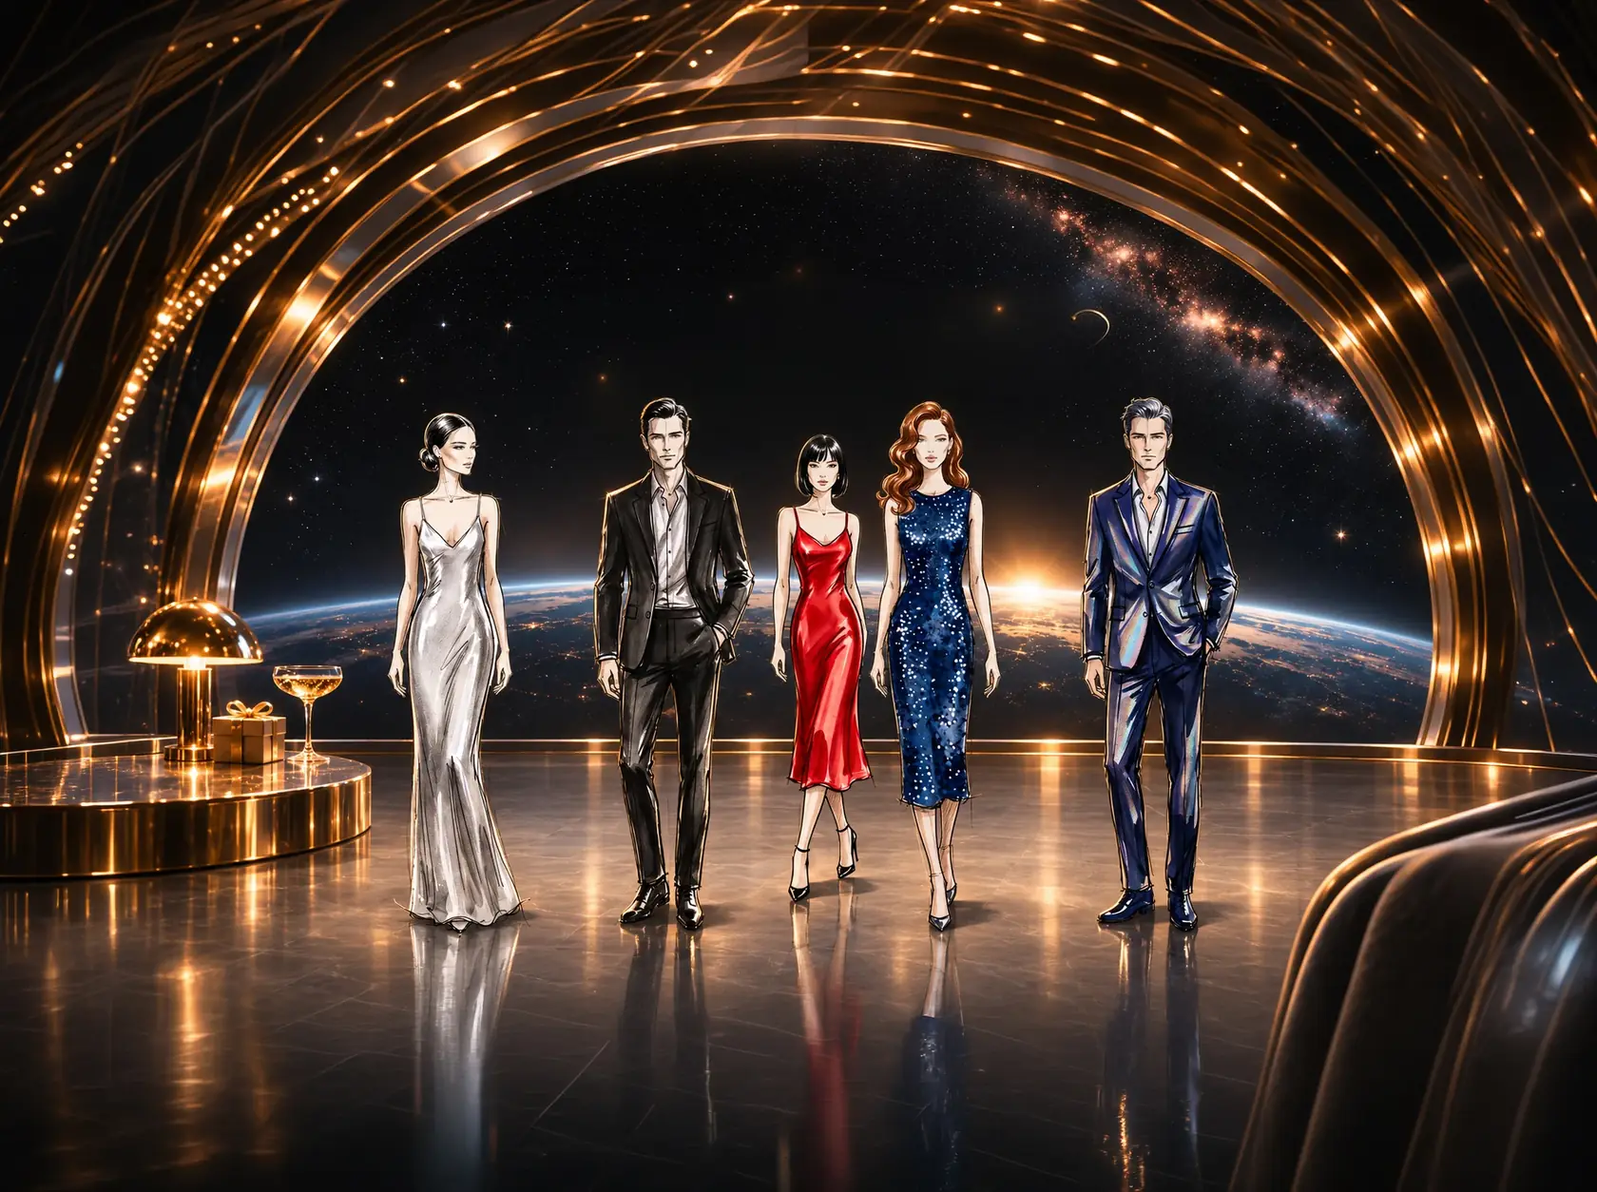
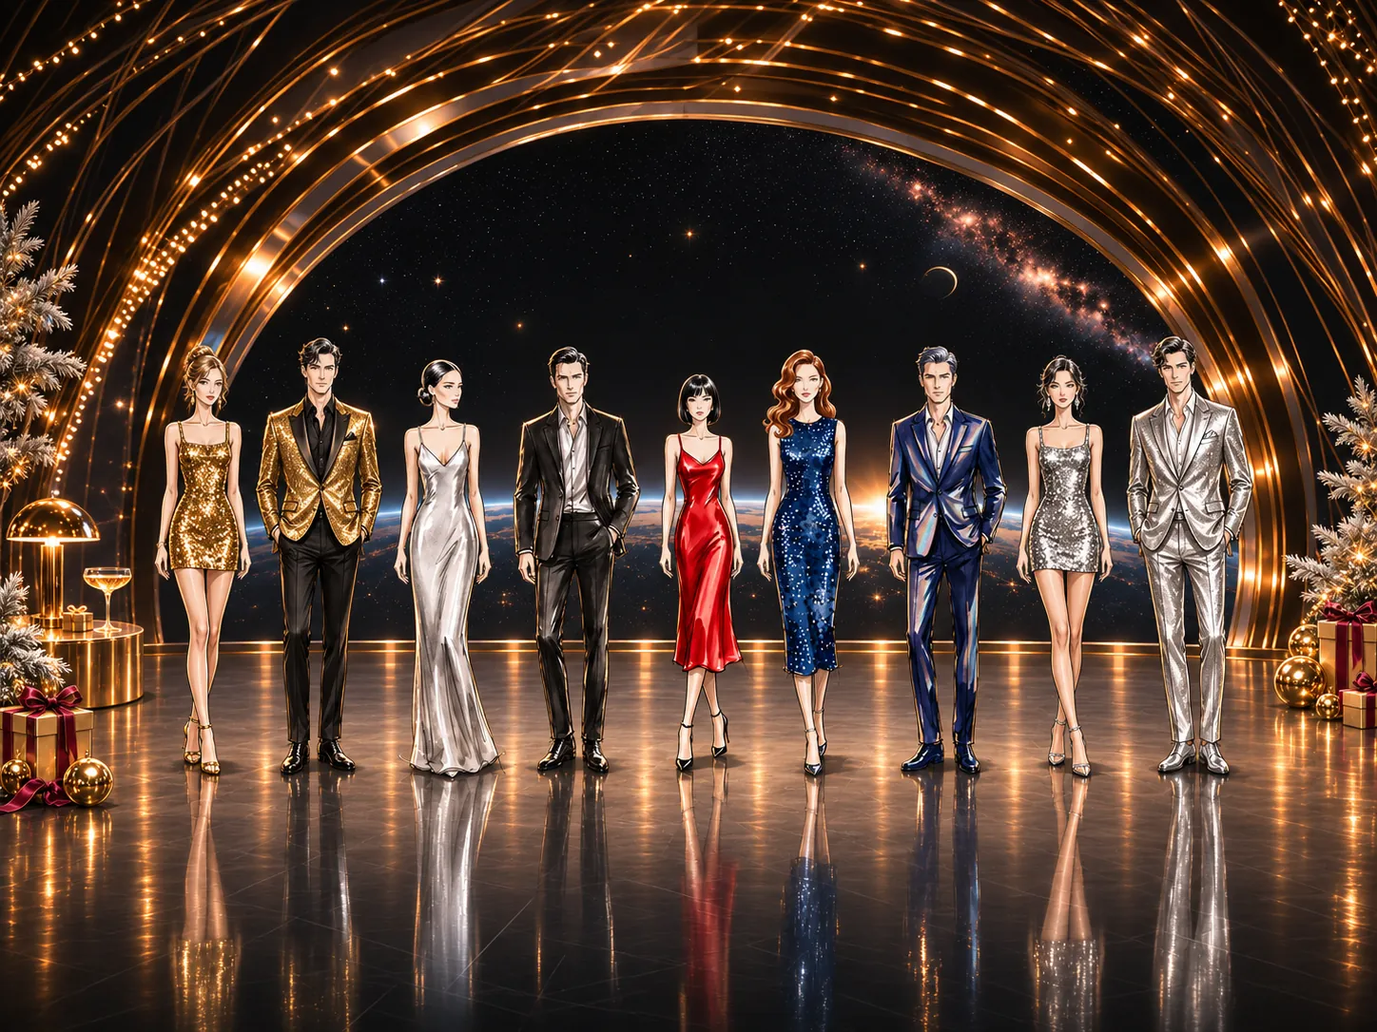
Add files via upload

diff --git a/zvezdy-github/index.html b/zvezdy-github/index.html
@@ -121,35 +121,18 @@ main{position:relative;z-index:3}
 
 /* ================= HERO ================= */
 .hero{position:relative;min-height:100svh;display:flex;align-items:center;justify-content:center;
-  text-align:center;overflow:hidden;background:
-    radial-gradient(120% 90% at 50% 112%,#F6E9D2 0%,#D9C5A2 16%,#6E5B6B 38%,#241A2E 62%,#0D0912 85%)}
-.hero-sky{position:absolute;inset:0;overflow:hidden}
-.globe{position:absolute;left:50%;top:-62vw;width:142vw;aspect-ratio:1;translate:-50% 0;border-radius:50%;
-  background:radial-gradient(circle at 50% 50%,#0A0710 0%,#0C0814 61%,rgba(12,8,20,0) 64%);
-  box-shadow:0 0 0 1px rgba(232,206,147,.16),0 40px 120px rgba(0,0,0,.6)}
-.globe::after{content:'';position:absolute;inset:0;border-radius:50%;
-  background:conic-gradient(from 60deg at 50% 50%,transparent 0deg,rgba(246,230,192,.0) 30deg,
-    rgba(246,230,192,.9) 56deg,rgba(255,240,210,1) 62deg,rgba(232,206,147,.45) 72deg,transparent 100deg);
-  -webkit-mask:radial-gradient(circle,transparent 60.4%,#000 61%,#000 62.6%,transparent 63%);
-  mask:radial-gradient(circle,transparent 60.4%,#000 61%,#000 62.6%,transparent 63%);
+  text-align:center;overflow:hidden;background:#221c28}
+.hero-sky{position:absolute;inset:0;background:
+  radial-gradient(ellipse at 50% 42%,rgba(82,56,49,.24),transparent 62%),
+  url(hero.webp) center / cover no-repeat}
+.hero-ship{position:absolute;right:4%;top:23%;width:clamp(104px,17vw,275px);height:auto;pointer-events:none}
+@media(max-width:900px){
+  .hero-ship{top:17%;right:2%;width:clamp(78px,14vw,128px);opacity:.7}
 }
-.flare{position:absolute;width:min(46vw,520px);aspect-ratio:1;border-radius:50%;
-  right:12%;top:16%;pointer-events:none;
-  background:radial-gradient(circle,rgba(255,244,218,.85) 0%,rgba(232,206,147,.35) 18%,rgba(190,146,68,.12) 38%,transparent 66%)}
-.horizon{position:absolute;left:0;right:0;bottom:0;height:34vh;pointer-events:none;z-index:3;
-  background:radial-gradient(66% 100% at 50% 122%,rgba(255,247,228,.55) 0%,rgba(237,220,186,.28) 30%,transparent 62%)}
-.hero-photo{position:absolute;left:0;right:0;bottom:0;height:62%;z-index:2;
-  background:linear-gradient(rgba(8,5,14,.4),rgba(8,5,14,.4)),url(hero.webp) center 42% / cover;
-  -webkit-mask:linear-gradient(180deg,transparent 0%,rgba(0,0,0,.55) 22%,#000 48%);
-  mask:linear-gradient(180deg,transparent 0%,rgba(0,0,0,.55) 22%,#000 48%)}
-.hero-scrim{position:absolute;inset:0;z-index:4;pointer-events:none;background:
-  radial-gradient(68% 54% at 50% 44%,rgba(8,5,14,.82) 0%,rgba(8,5,14,.55) 48%,rgba(8,5,14,.12) 78%,transparent 92%),
-  linear-gradient(180deg,rgba(8,5,14,.72) 0%,rgba(8,5,14,.26) 26%,rgba(8,5,14,.3) 64%,rgba(8,5,14,.78) 100%)}
-
-.swoosh{position:absolute;left:50%;top:50%;translate:-50% -50%;width:min(118vw,1500px);
-  aspect-ratio:2.6/1;pointer-events:none;opacity:.9}
-.swoosh svg{width:100%;height:100%}
-
+@media(max-width:520px){
+  .hero-sky{background-size:auto,auto 100%;opacity:.8}
+  .hero-ship{top:14%;right:2%;width:78px;opacity:.62}
+}
 .hero-in{position:relative;z-index:6;padding:76px var(--gap) clamp(76px,9vh,112px);width:100%;
   text-shadow:0 2px 26px rgba(8,5,14,.85),0 1px 4px rgba(8,5,14,.6)}
 .hero .lbl{display:block;margin-bottom:22px}
@@ -271,11 +254,12 @@ main{position:relative;z-index:3}
 /* hero: logo + event info */
 .hero-when{display:grid;justify-items:center;gap:4px;margin:0 auto}
 .hero-when h1{font-size:clamp(30px,6vw,84px);line-height:1.06;color:var(--gold-xl);text-wrap:balance}
-.hero-time{font-family:var(--f-d);font-size:clamp(26px,4.25vw,60px);line-height:1.1;color:var(--gold-xl)}
-.hero-logos{display:flex;align-items:center;justify-content:center;gap:clamp(18px,2.6vw,36px);margin:0 auto clamp(18px,3vh,30px)}
-.hero-logo{height:clamp(58px,6vw,84px);width:auto;filter:drop-shadow(0 4px 22px rgba(8,5,14,.7))}
-.hero-logo.psb{height:clamp(28px,3vw,42px)}
-.hero-logos-sep{width:1px;height:clamp(40px,4.6vw,62px);background:linear-gradient(180deg,transparent,rgba(232,206,147,.7),transparent)}
+.hero-times{display:flex;flex-wrap:wrap;justify-content:center;column-gap:clamp(18px,4vw,60px);row-gap:8px}
+.hero-time{display:grid;gap:2px;font-family:var(--f-d);font-size:clamp(24px,3.9vw,52px);line-height:1.12;color:var(--gold-xl)}
+.hero-time span{font-family:var(--f-b);font-size:clamp(11px,1.3vw,16px);color:var(--cream)}
+.hero-logos{display:flex;align-items:center;justify-content:space-between;max-width:1060px;
+  gap:20px;margin:0 auto clamp(18px,3vh,30px)}
+.hero-logo{width:clamp(88px,14vw,168px);height:clamp(42px,5.3vw,70px);object-fit:contain}
 .hero-intro{position:relative;display:grid;grid-template-columns:repeat(2,minmax(0,1fr));
   align-items:center;max-width:920px;margin:clamp(28px,5vh,54px) auto;text-align:left;
   column-gap:clamp(48px,8vw,112px)}
@@ -334,6 +318,28 @@ main{position:relative;z-index:3}
   .image-slide__copy{grid-template-columns:1fr;margin-top:calc(68vw - 44px)}
 }
 
+.dress-intro{grid-column:1/-1;text-align:center}
+#dress h3,#dress h4{font-family:var(--f-d);font-size:clamp(17px,2.5vw,34px);color:var(--gold-xl);margin-bottom:5px}
+#dress h4{font-size:clamp(16px,1.75vw,25px)}
+#dress .image-slide__content{padding-bottom:clamp(24px,3vw,56px)}
+#dress .image-slide__copy{text-align:center}
+#prog .programme-logo,#prog .suit-logo{position:absolute;z-index:1;object-fit:contain}
+#prog .programme-logo{width:7%;height:5%;top:20%}
+#prog .programme-logo--a7{left:36%}
+#prog .programme-logo--psb{left:68%;top:21%}
+#prog .suit-logo{width:1.15%;height:1.2%;left:23.3%;top:33.5%;transform:rotate(28deg)}
+#reg::before{background:linear-gradient(90deg,rgba(15,12,18,.15),rgba(15,12,18,.82)),
+  url(registration.webp) center / cover no-repeat}
+#reg .sent{background:rgba(13,9,18,.73);padding:clamp(16px,3vw,36px);border-radius:6px}
+#reg .field input,#reg .field select{color:var(--cream)}
+#reg .field label{color:var(--gold-l)}
+#reg .field .msg{color:#FFB9A6}
+#reg .field input:focus{outline:2px solid var(--gold)}
+.field-select label{position:static;display:block;pointer-events:auto;margin-bottom:4px}
+.field-select select{width:100%;border:1px solid rgba(190,146,68,.55);border-radius:4px;
+  background:var(--night);font:inherit;padding:8px;color-scheme:dark}
+.field-select .msg{position:static;display:none}
+.field-select.err .msg{display:block}
 /* ================= FORM / TICKET ================= */
 .fgrid{display:grid;grid-template-columns:1fr 1.05fr;gap:clamp(34px,5.5vw,86px);align-items:start}
 .field{position:relative;margin-bottom:24px}
@@ -374,19 +380,15 @@ main{position:relative;z-index:3}
 .sent.off{display:none}
 
 /* ================= MAP ================= */
-.mapbox{position:relative;border-radius:6px;overflow:hidden;border:1px solid rgba(232,206,147,.3);
-  min-height:clamp(290px,48vh,480px);display:flex;align-items:center;justify-content:center;
-  background:radial-gradient(70% 70% at 50% 50%,rgba(190,146,68,.2),transparent 68%),
-             linear-gradient(160deg,#160F20,#0B0710)}
-.mapgrid{position:absolute;inset:0;opacity:.3;
-  background-image:linear-gradient(rgba(232,206,147,.16) 1px,transparent 1px),
-                   linear-gradient(90deg,rgba(232,206,147,.16) 1px,transparent 1px);
-  background-size:54px 54px;
-  -webkit-mask:radial-gradient(58% 58% at 50% 50%,#000,transparent);
-  mask:radial-gradient(58% 58% at 50% 50%,#000,transparent)}
-.pin{position:relative;z-index:3;text-align:center;padding:0 20px}
-.pin .d{width:15px;height:15px;border-radius:50%;background:var(--gold-l);margin:0 auto 20px;position:relative;
-  box-shadow:0 0 24px rgba(232,206,147,.9)}
+.mapbox{position:relative;aspect-ratio:1846/852;min-height:280px;
+  background:#080708 url(map-frame.webp) center / 100% 100% no-repeat}
+.pin{position:absolute;inset:37% 20% 22%;display:grid;align-content:center;justify-items:center;
+  text-align:center;color:var(--cream)}
+.map-planet{width:clamp(34px,8vw,112px);max-height:clamp(34px,8vw,96px);object-fit:contain}
+.pin h3{font-size:clamp(16px,3vw,42px);margin:3px 0 !important}
+.pin .lbl{font-size:clamp(7px,1vw,10px);letter-spacing:.22em}
+.pin .lead{font-size:clamp(10px,1.45vw,18px);line-height:1.25}
+#map .btn-o{color:var(--gold-xl);border-color:var(--gold)}
 .acts{display:flex;gap:12px;flex-wrap:wrap;margin-top:28px}
 .infos{display:grid;grid-template-columns:repeat(auto-fit,minmax(225px,1fr));gap:clamp(16px,2.2vw,28px);margin-top:44px}
 
@@ -408,8 +410,6 @@ footer span{font-family:var(--f-d);font-size:10.5px;letter-spacing:.26em;text-tr
   .nav-links{display:none}
   .burger{display:flex}
   .hero{min-height:100svh}
-  .globe{width:230vw;top:-104vw}
-  .flare{width:62vw;right:2%;top:12%}
   .board-head{display:none}
   .row{grid-template-columns:1fr auto;gap:10px 16px;padding:16px clamp(16px,4vw,24px)}
   .row .tm{grid-column:1;font-size:15px}
@@ -453,38 +453,19 @@ footer span{font-family:var(--f-d);font-size:10.5px;letter-spacing:.26em;text-tr
 
 <!-- ============ 01 HERO ============ -->
 <section class="hero" id="home">
-  <div class="hero-sky">
-    <div class="globe"></div>
-    <div class="flare"></div>
-    <div class="swoosh">
-      <svg viewBox="0 0 1200 460" fill="none" xmlns="http://www.w3.org/2000/svg">
-        <defs>
-          <linearGradient id="sw" x1="0" y1="0" x2="1" y2="0">
-            <stop offset="0" stop-color="#BE9244" stop-opacity="0"/>
-            <stop offset=".22" stop-color="#F6E6C0" stop-opacity=".95"/>
-            <stop offset=".55" stop-color="#BE9244" stop-opacity=".5"/>
-            <stop offset=".82" stop-color="#F6E6C0" stop-opacity=".9"/>
-            <stop offset="1" stop-color="#BE9244" stop-opacity="0"/>
-          </linearGradient>
-        </defs>
-        <ellipse cx="600" cy="230" rx="560" ry="152" stroke="url(#sw)" stroke-width="1.6" transform="rotate(-7 600 230)"/>
-        <ellipse cx="600" cy="230" rx="470" ry="196" stroke="url(#sw)" stroke-width="1" opacity=".55" transform="rotate(9 600 230)"/>
-      </svg>
-    </div>
-    <div class="hero-photo"></div>
-    <div class="horizon"></div>
-    <div class="hero-scrim"></div>
-  </div>
-
+  <div class="hero-sky" aria-hidden="true"></div>
+  <img class="hero-ship" src="holiday-ship.webp" alt="" decoding="async">
   <div class="hero-in on-dark">
     <div class="hero-logos">
       <img class="hero-logo" src="logo-a7.webp" alt="А7 — Платформа международных платежей">
-      <span class="hero-logos-sep"></span>
       <img class="hero-logo psb" src="logo-psb.webp" alt="ПСБ">
     </div>
     <div class="hero-when">
       <h1><time datetime="2026-12-27">27 декабря 2026</time></h1>
-      <time class="hero-time" datetime="2026-12-27T17:00:00+03:00">17:00</time>
+      <div class="hero-times">
+        <div class="hero-time"><time datetime="2026-12-27T17:00:00+03:00">17:00</time><span>Сбор гостей</span></div>
+        <div class="hero-time"><time datetime="2026-12-27T18:00:00+03:00">18:00</time><span>Начало</span></div>
+      </div>
     </div>
     <div class="hero-intro">
       <div class="hero-title">
@@ -516,7 +497,7 @@ footer span{font-family:var(--f-d);font-size:10.5px;letter-spacing:.26em;text-tr
 <!-- ============ 04 DRESS CODE ============ -->
 <section class="image-slide on-dark" id="dress">
   <div class="image-slide__media">
-    <img src="dresscode.webp" width="1680" height="1254" decoding="async" alt="Образы для вечера: серебристое и красное платья, платье с синими пайетками, чёрный и тёмно-синий костюмы" loading="lazy">
+    <img src="dresscode.webp" width="1448" height="1086" decoding="async" alt="Праздничные образы: золотые, серебристые, красные и синие платья, классические костюмы и блестящие пиджаки" loading="lazy">
   </div>
   <div class="wrap image-slide__content">
     <div class="image-slide__title">
@@ -524,8 +505,18 @@ footer span{font-family:var(--f-d);font-size:10.5px;letter-spacing:.26em;text-tr
       <h2>Космический <span class="it">шик</span></h2>
     </div>
     <div class="image-slide__copy">
-      <p class="lead"><b>Galactic Smart Casual.</b> Выбирайте образ, который будто создан для вечера среди звёзд. Серебро, металлик, чёрный и глубокий синий, мерцающие фактуры и футуристичные детали — всё это идеально впишется в атмосферу нашей новой галактики.</p>
-      <p class="lead">Скафандр необязателен. Достаточно одной выразительной детали, которая сделает ваш образ по-настоящему неземным. И главное — выбирайте то, в чём будете чувствовать себя комфортно весь вечер.</p>
+      <div class="dress-intro">
+        <h3>Galactic Smart Casual</h3>
+        <p class="lead">Выбирайте образ, который будто создан для вечера среди звёзд.</p>
+      </div>
+      <div>
+        <h4>Для дам</h4>
+        <p class="lead">Коктейльные или вечерние платья, яркие цвета, металлик и пайетки.</p>
+      </div>
+      <div>
+        <h4>Для мужчин</h4>
+        <p class="lead">Классические костюмы или акцентные пиджаки с мерцающей фактурой.</p>
+      </div>
     </div>
   </div>
 </section>
@@ -533,7 +524,10 @@ footer span{font-family:var(--f-d);font-size:10.5px;letter-spacing:.26em;text-tr
 <!-- ============ 03 PROGRAMME ============ -->
 <section class="image-slide on-dark" id="prog">
   <div class="image-slide__media">
-    <img src="program-stand.webp" width="1680" height="1206" decoding="async" alt="Стенд-афиша: приглашаем на новую орбиту праздника. Секретные звёздные появления, космическая шоу-программа, галактические бары и авторские коктейли, орбитальный фуршет, розыгрыш межзвёздных призов" loading="lazy">
+    <img src="program-stand.webp" width="1480" height="1063" decoding="async" alt="Стенд-афиша: приглашаем на новую орбиту праздника. Секретные звёздные появления, космическая шоу-программа, галактические бары и авторские коктейли, орбитальный фуршет, розыгрыш межзвёздных призов" loading="lazy">
+    <img class="programme-logo programme-logo--a7" src="logo-a7.webp" alt="А7" loading="lazy">
+    <img class="programme-logo programme-logo--psb" src="logo-psb.webp" alt="ПСБ" loading="lazy">
+    <img class="suit-logo" src="logo-a7.webp" alt="" loading="lazy">
   </div>
   <div class="wrap image-slide__content">
     <div class="image-slide__title">
@@ -557,17 +551,27 @@ footer span{font-family:var(--f-d);font-size:10.5px;letter-spacing:.26em;text-tr
         <form id="regForm" novalidate>
           <div class="field"><input type="text" id="f-name" autocomplete="name"><label for="f-name">Фамилия и имя</label><span class="msg">Заполните</span></div>
           <div class="field"><input type="email" id="f-mail" autocomplete="email"><label for="f-mail">E-mail</label><span class="msg">Проверьте</span></div>
-          <div class="field"><input type="text" id="f-comp" autocomplete="organization"><label for="f-comp">Компания</label><span class="msg">Заполните</span></div>
+          <div class="field"><input type="tel" id="f-tel" autocomplete="tel"><label for="f-tel">Телефон</label><span class="msg">Проверьте</span></div>
+          <div class="field field-select">
+            <label for="f-comp">Компания</label>
+            <select id="f-comp" autocomplete="organization">
+              <option value="">Выберите компанию</option>
+              <option>А7</option>
+              <option>ПСБ</option>
+              <option>Другая компания</option>
+            </select>
+            <span class="msg">Выберите</span>
+          </div>
           <button class="btn" type="submit" style="margin-top:12px">Зарегистрироваться <i></i></button>
-          <p class="small" style="margin-top:20px;color:rgba(205,191,172,.65)">Все поля обязательны. Билет придёт на указанную почту.</p>
+          <p class="small" style="margin-top:20px;color:rgba(205,191,172,.65)">Все поля обязательны. Билет появится на этой странице.</p>
         </form>
       </div>
 
       <div class="ok" id="okBlock">
         <div class="panel" style="background:linear-gradient(160deg,rgba(246,230,192,.12),rgba(190,146,68,.05));border-color:rgba(232,206,147,.4)">
           <span class="lbl on-dark">Регистрация прошла успешно</span>
-          <h3 class="h-m" style="margin:14px 0 12px;color:var(--cream)">До встречи за пределами звёзд<br>27 декабря в 17:00</h3>
-          <p class="lead">Ваш персональный QR-билет отправлен на указанную электронную почту. Сохраните его на телефоне и покажите при входе.</p>
+          <h3 class="h-m" style="margin:14px 0 12px;color:var(--cream)">До встречи за пределами звёзд<br>27 декабря в 18:00</h3>
+          <p class="lead">Ваш персональный билет готов. Сохраните его на телефоне и покажите при входе.</p>
         </div>
       </div>
 
@@ -584,7 +588,7 @@ footer span{font-family:var(--f-d);font-size:10.5px;letter-spacing:.26em;text-tr
             <div class="pass-details">
               <div class="prow"><span>Гость</span><b id="tkName">—</b></div>
               <div class="prow"><span>Компания</span><b id="tkComp">—</b></div>
-              <div class="prow"><span>Вылет</span><b>27.12.2026 · 17:00</b></div>
+              <div class="prow"><span>Вылет</span><b>27.12.2026 · 18:00</b></div>
               <div class="prow"><span>Терминал</span><b>ЦСКА Арена<br>ул. Автозаводская, 23А</b></div>
             </div>
             <div class="qr" id="qrBox"></div>
@@ -599,18 +603,17 @@ footer span{font-family:var(--f-d);font-size:10.5px;letter-spacing:.26em;text-tr
 </section>
 
 <!-- ============ 06 MAP ============ -->
-<section class="sec" id="map">
+<section class="sec dark on-dark" id="map">
   <div class="wrap">
     <div class="sec-head rv">
-      <span class="lbl">Координаты старта</span>
+      <span class="lbl on-dark">Координаты старта</span>
       <h2 class="h-xl" style="margin-top:18px">Точка старта — <span class="it">Земля</span></h2>
       <p class="lead">Следующая остановка — за пределами звёзд. А пока наш космодром ждёт вас в самом сердце Москвы. Постройте маршрут заранее и не забудьте персональный QR-билет — он понадобится для входа.</p>
     </div>
 
     <div class="mapbox rv">
-      <div class="mapgrid"></div>
       <div class="pin">
-        <div class="d"></div>
+        <img class="map-planet" src="venue-planet.webp" alt="" loading="lazy">
         <span class="lbl on-dark">Место встречи</span>
         <h3 class="h-l" style="margin:14px 0 10px;color:var(--cream)">ЦСКА Арена</h3>
         <p class="lead" style="margin:0 auto;color:#D9CDBA">Москва, ул. Автозаводская, д. 23А</p>
@@ -673,7 +676,7 @@ addEventListener('resize',updateNav);
 
 /* ============ COUNTDOWN ============ */
 (function(){
-  const t=new Date('2026-12-27T17:00:00+03:00').getTime(), box=document.getElementById('count');
+  const t=new Date('2026-12-27T18:00:00+03:00').getTime(), box=document.getElementById('count');
   const el=k=>box.querySelector('[data-'+k+']');
   function tick(){
     let d=Math.max(0,t-Date.now());
@@ -691,7 +694,7 @@ addEventListener('resize',updateNav);
 
 /* ============ FORM + QR ============ */
 const form=document.getElementById('regForm');
-document.querySelectorAll('.field input').forEach(i=>i.addEventListener('input',()=>{
+document.querySelectorAll('.field input,.field select').forEach(i=>i.addEventListener('input',()=>{
   i.classList.toggle('filled',!!i.value); i.parentElement.classList.remove('err');
 }));
 function drawQR(text){
@@ -715,7 +718,7 @@ form.addEventListener('submit',e=>{
   e.preventDefault();
   const v=id=>document.getElementById(id);let ok=true;
   [['f-name',s=>s.trim().length>1],
-   ['f-mail',s=>/^[^@\s]+@[^@\s]+\.[^@\s]+$/.test(s)],['f-comp',s=>s.trim().length>1]]
+   ['f-mail',s=>/^[^@\s]+@[^@\s]+\.[^@\s]+$/.test(s)],['f-tel',s=>/^\+?[\d\s().-]+$/.test(s.trim())&&/^\d{10,15}$/.test(s.replace(/\D/g,''))],['f-comp',s=>!!s]]
   .forEach(([id,t])=>{const el=v(id),g=t(el.value);el.parentElement.classList.toggle('err',!g);if(!g)ok=false});
   if(!ok)return;
   const no='A7-'+Math.random().toString(36).slice(2,8).toUpperCase();
